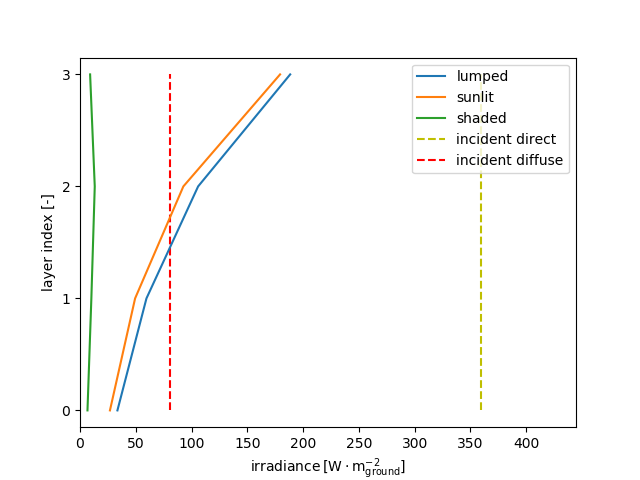
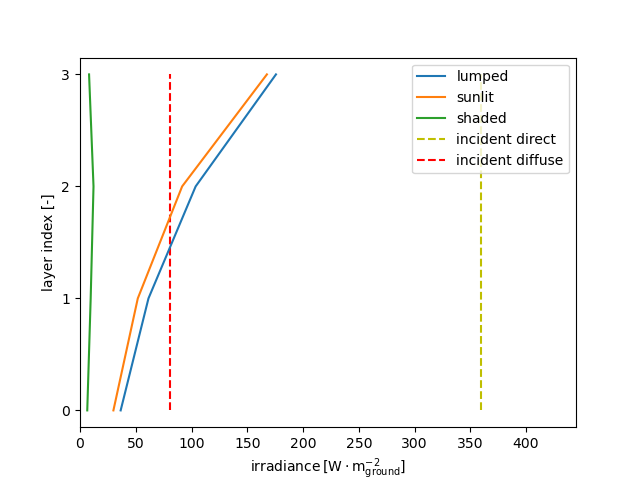
update one example with clumping_factor = 0.89

diff --git a/examples/layered_lumped_de_pury_vs_sunlit_shaded/sim.py b/examples/layered_lumped_de_pury_vs_sunlit_shaded/sim.py
@@ -62,7 +62,8 @@ solar_inclination = [-16.22, -16.22, -16.22, -15.39, -9.49, -1.91, 6.65, 15.92, 
 
 if __name__ == '__main__':
     common_params = dict(leaf_reflectance=0.07, leaf_transmittance=0.0, leaves_to_sun_average_projection=0.5,
-                         sky_sectors_number=3, sky_type='soc', canopy_reflectance_to_diffuse_irradiance=0.057)
+                         sky_sectors_number=3, sky_type='soc', canopy_reflectance_to_diffuse_irradiance=0.057,
+                         clumping_factor=0.89)
 
     params_lumped = params.LumpedParams(model='de_pury', **common_params)
     params_sunlit_shaded = params.SunlitShadedParams(**common_params)
